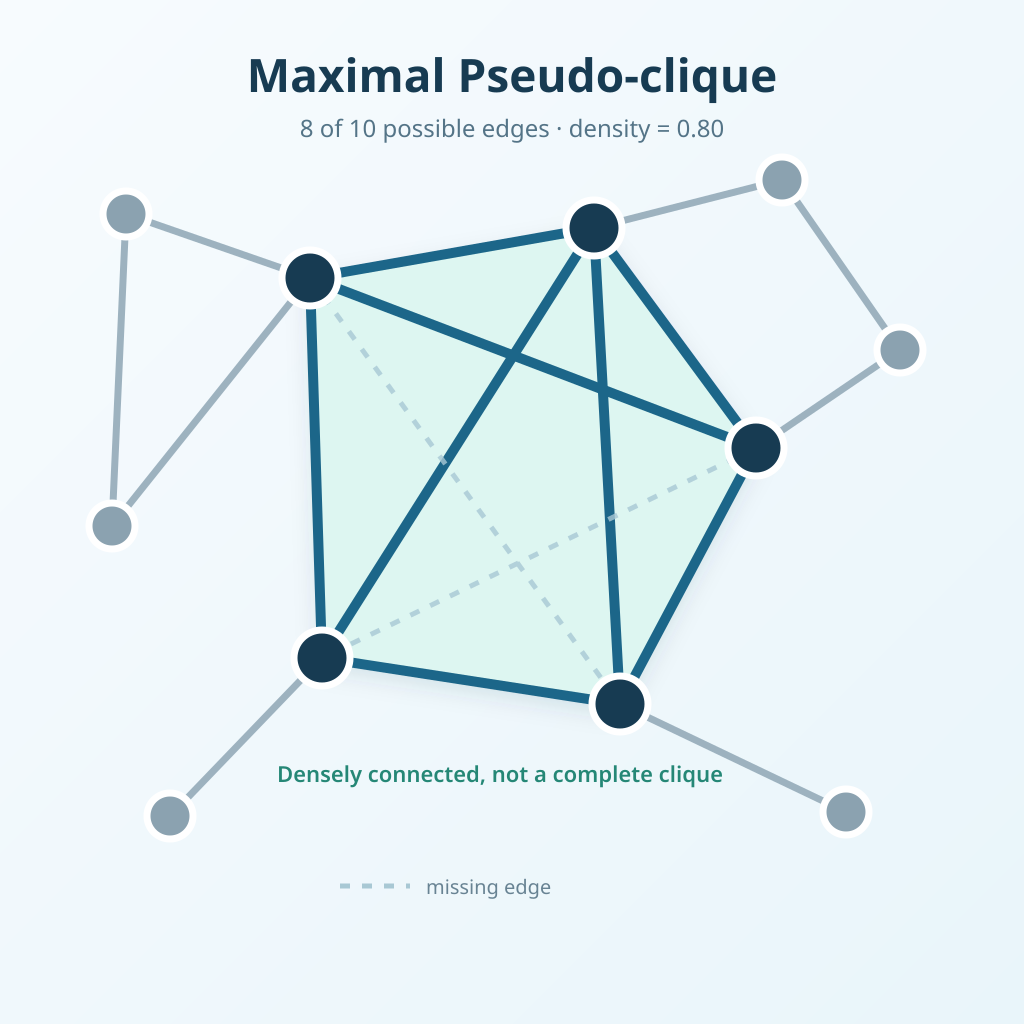
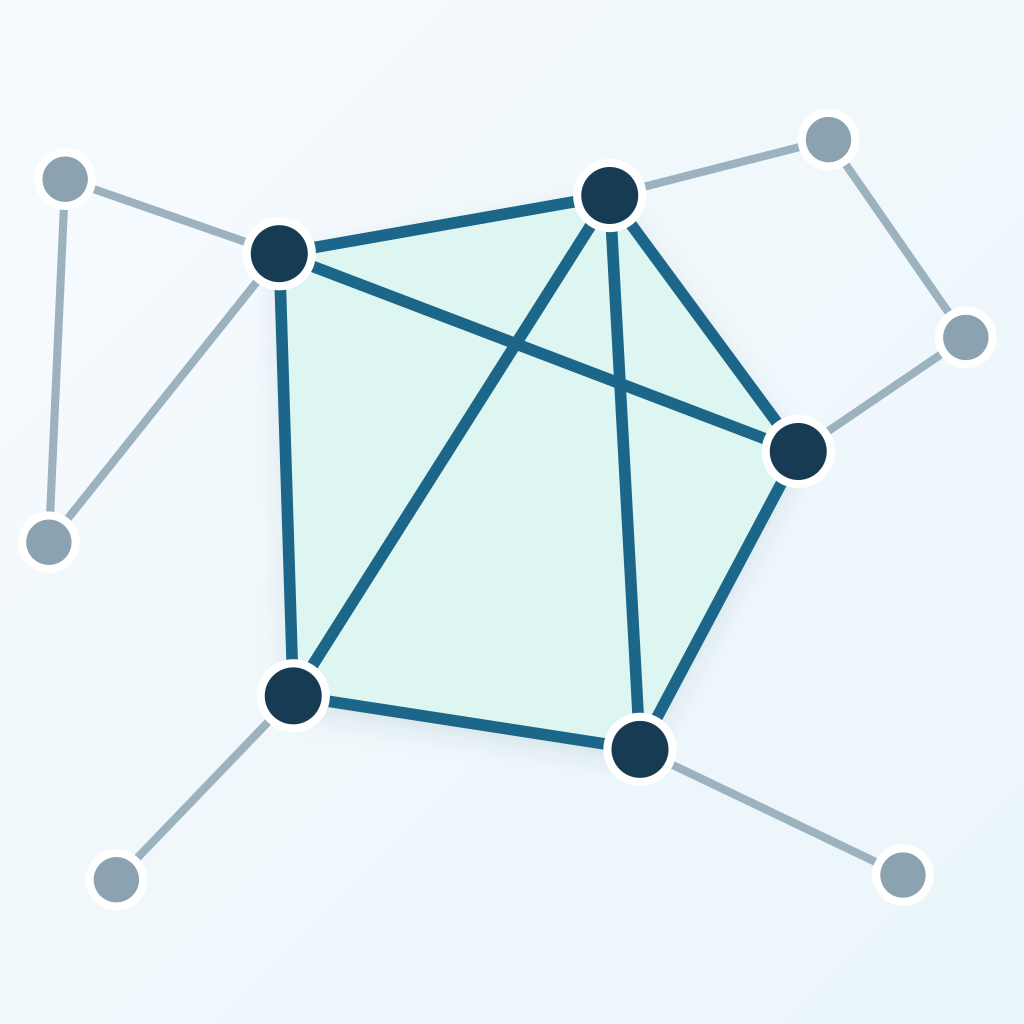
Refine responsive portfolio presentation

diff --git a/_sass/_custom.scss b/_sass/_custom.scss
@@ -480,23 +480,40 @@ body {
 .publication-item__image {
   flex-shrink: 0;
   width: 100%;
-  max-width: 170px;
-  height: 105px;
+  max-width: 180px;
+  aspect-ratio: 16 / 10;
   overflow: hidden;
   border-radius: 4px;
   background-color: #f7fafc;
   border: 1px solid #e2e8f0;
   box-shadow: 0 1px 3px rgba(0,0,0,0.05);
+
+  a {
+    display: block;
+    width: 100%;
+    height: 100%;
+  }
   
   .publication-item__img {
     width: 100%;
     height: 100%;
-    object-fit: cover;
+    object-fit: contain;
+    padding: 0.25rem;
+    box-sizing: border-box;
     display: block;
     transition: transform 0.3s ease;
     
     &:hover {
       transform: scale(1.05);
+    }
+  }
+
+  @media (max-width: 599px) {
+    max-width: none;
+    aspect-ratio: 16 / 9;
+
+    .publication-item__img {
+      padding: 0.5rem;
     }
   }
 }
@@ -1191,4 +1208,3 @@ body {
     display: none !important;
   }
 }
-

diff --git a/_sass/_sidebar.scss b/_sass/_sidebar.scss
@@ -198,8 +198,12 @@
   .affiliation.affiliation--accent {
     margin-bottom: 18px;
     padding: 5px 0 5px 14px;
-    border-bottom: none;
+    border: none;
     border-left: 3px solid #b12b32;
+    border-radius: 0;
+    background: transparent;
+    box-shadow: none;
+    box-sizing: border-box;
 
     .affiliation__role {
       margin-bottom: 7px;
@@ -228,6 +232,26 @@
     .affiliation__arrow {
       font-size: 0.75em;
       opacity: 0.65;
+    }
+
+    @media (max-width: 924px) {
+      width: calc(100% - 40px);
+      max-width: 320px;
+      margin: 12px auto 20px;
+      padding-left: 20px;
+      border-left: none;
+      position: relative;
+
+      &::before {
+        content: "";
+        position: absolute;
+        left: 0;
+        top: 50%;
+        width: 3px;
+        height: 44px;
+        background: #b12b32;
+        transform: translateY(-50%);
+      }
     }
   }
 
